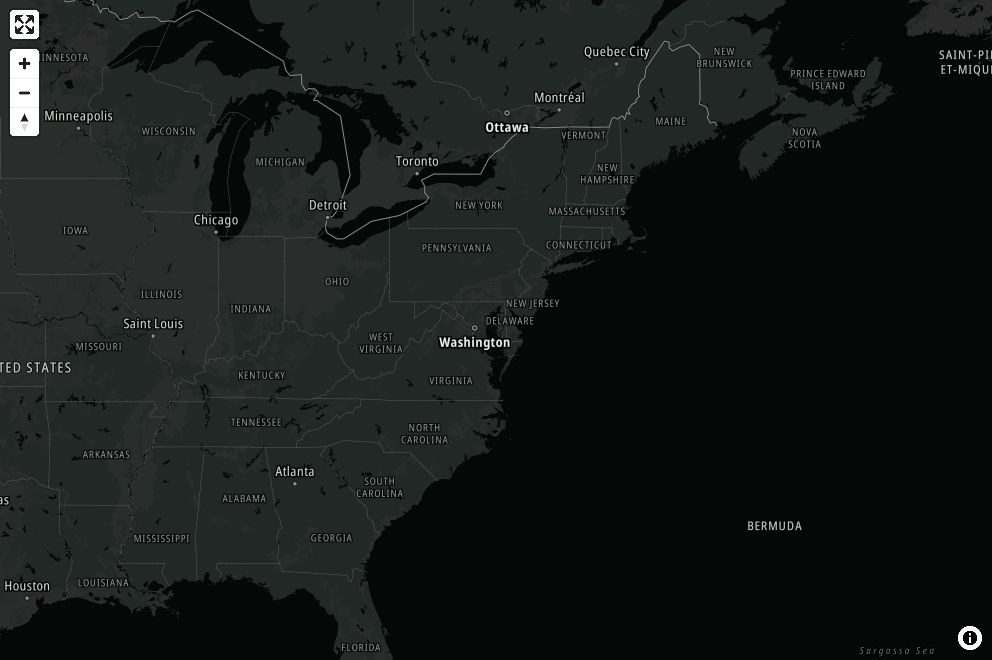
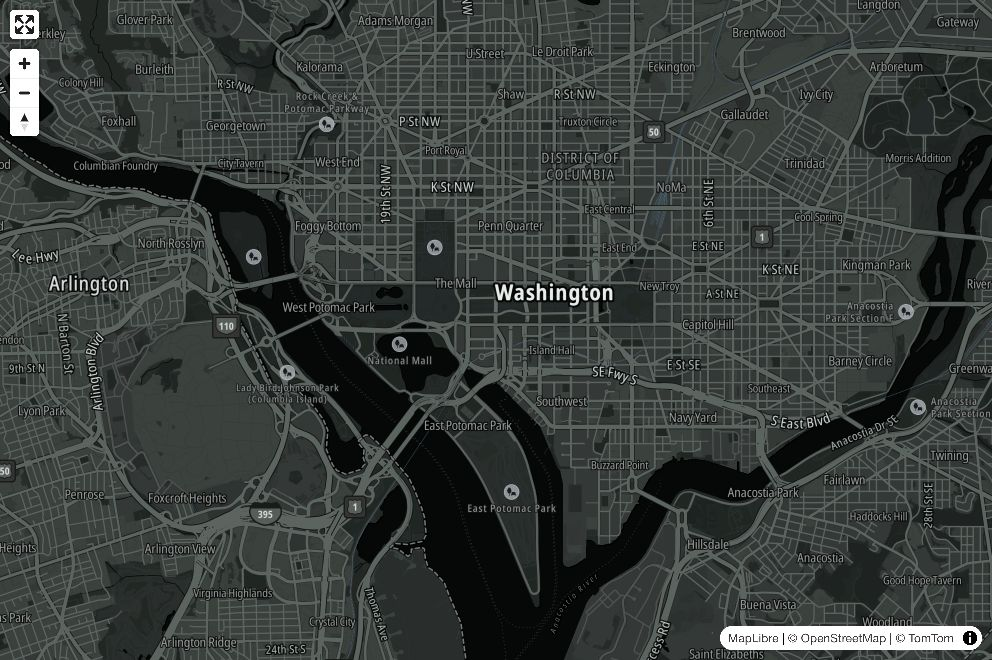
added mapbox component and map images

diff --git a/src/components/MapBox/BaseMapboxMap.tsx b/src/components/MapBox/BaseMapboxMap.tsx
@@ -1,14 +1,15 @@
 "use client";
 
-import {
+import mapbox, {
 	FullscreenControl,
-	Map as MapLibre,
+	Map as MapBox,
 	NavigationControl,
-} from "maplibre-gl";
-import "maplibre-gl/dist/maplibre-gl.css";
+} from "mapbox-gl";
+import "mapbox-gl/dist/mapbox-gl.css";
 import { useEffect, useRef } from "react";
 import { MapContainer } from "@/components/MapContainer";
 import { DEFAULT_MAP_CENTER, DEFAULT_MAP_ZOOM } from "@/constants";
+import { useApiKeyContext } from "@/context";
 import type { LngLat } from "@/types";
 import { logInfo } from "@/utilities";
 
@@ -16,28 +17,25 @@ type Props = {
 	styleUrl: string;
 };
 
-export function BaseMaplibreMap({ styleUrl }: Props) {
+export function BaseMapboxMap({ styleUrl }: Props) {
+	const { mapboxApiKey } = useApiKeyContext();
 	const divRef = useRef<HTMLDivElement>(null);
-	const mapRef = useRef<MapLibre>(null);
+	const mapRef = useRef<MapBox>(null);
 
 	useEffect(() => {
-		if (
-			!styleUrl ||
-			!divRef.current ||
-			divRef.current.querySelector("canvas")
-		) {
+		if (!divRef.current || divRef.current.querySelector("canvas")) {
 			return;
 		}
 
 		logInfo("Creating maplibre map instance");
-		mapRef.current = renderMap(divRef.current, styleUrl);
+		mapRef.current = renderMap(divRef.current, styleUrl, mapboxApiKey);
 		return () => {
 			if (mapRef.current) {
 				logInfo("Removing maplibre map map");
 				mapRef.current.remove();
 			}
 		};
-	}, [styleUrl]);
+	}, [mapboxApiKey, styleUrl]);
 
 	return (
 		<MapContainer>
@@ -49,10 +47,12 @@ export function BaseMaplibreMap({ styleUrl }: Props) {
 export function renderMap(
 	container: HTMLDivElement,
 	styleUrl: string,
+	mapboxApiKey: string,
 	zoom: number = DEFAULT_MAP_ZOOM,
 	center: LngLat = DEFAULT_MAP_CENTER,
 ) {
-	const map = new MapLibre({
+	mapbox.accessToken = mapboxApiKey;
+	const map = new MapBox({
 		container,
 		zoom,
 		center,
@@ -68,7 +68,6 @@ export function renderMap(
 			showCompass: true,
 			showZoom: true,
 			visualizePitch: true,
-			visualizeRoll: true,
 		}),
 		"top-left",
 	);

diff --git a/src/components/MapBox/index.ts b/src/components/MapBox/index.ts
@@ -1,0 +1,49 @@
+export * from "./BaseMapboxMap";
+
+import dynamic from "next/dynamic";
+import type { ComponentType } from "react";
+import type { MapMetadata } from "@/types";
+import { capitalize } from "@/utilities";
+import { styles } from "./mapStyles";
+
+const MapboxMap: ComponentType<{ styleUrl: string }> = dynamic(
+	() => import("./MapboxMap"),
+);
+
+const metadata: MapMetadata = {
+	id: "mapbox",
+	img: {
+		src: "/img/default-mapguru-image.jpg",
+		alt: "loading large volumes of data",
+	},
+	title: "Fun mapbox map",
+	description: "Amazing mapbox map",
+	component: MapboxMap,
+	categories: ["mapbox"],
+};
+
+type MapStyle = {
+	name: string;
+	url: string;
+};
+
+const getId = (style: MapStyle) => `mapbox-${style.name}`;
+
+const getTitle = (style: MapStyle) => capitalize(style.name);
+
+export const mapboxMetadata: MapMetadata[] = styles.map((style) => {
+	const id = getId(style);
+	const title = getTitle(style);
+	const img = {
+		src: `/img/${id}.jpeg`,
+		alt: title,
+	};
+
+	return {
+		...metadata,
+		id,
+		img,
+		title,
+		styleUrl: style.url,
+	};
+});

diff --git a/src/components/TomTom/index.ts b/src/components/TomTom/index.ts
@@ -1,13 +1,11 @@
-export * from "./TomTom";
-
 import dynamic from "next/dynamic";
 import type { ComponentType } from "react";
 import type { MapMetadata } from "@/types";
 import { capitalize } from "@/utilities";
 import { styles } from "./mapStyles";
 
-const TomTom: ComponentType<{ styleUrl?: string }> = dynamic(
-	() => import("./TomTom"),
+const TomtomMap: ComponentType<{ styleUrl: string }> = dynamic(
+	() => import("./TomtomMap"),
 );
 
 const metadata: MapMetadata = {
@@ -19,7 +17,7 @@ const metadata: MapMetadata = {
 	title: "Efficient rendering of large volumes of data",
 	description:
 		"Map that loads and effeciently renders approximately 30MB of data containing more than 100k records.",
-	component: TomTom,
+	component: TomtomMap,
 	categories: ["tomtom"],
 };
 

diff --git a/src/components/MapBox/mapStyles.ts b/src/components/MapBox/mapStyles.ts
@@ -1,0 +1,38 @@
+export const styles = [
+	{
+		name: "standard",
+		url: "mapbox://styles/mapbox/standard",
+	},
+	{
+		name: "streets",
+		url: "mapbox://styles/mapbox/streets-v12",
+	},
+	{
+		name: "outdoors",
+		url: "mapbox://styles/mapbox/outdoors-v12",
+	},
+	{
+		name: "light",
+		url: "mapbox://styles/mapbox/light-v11",
+	},
+	{
+		name: "dark",
+		url: "mapbox://styles/mapbox/dark-v11",
+	},
+	{
+		name: "satellite",
+		url: "mapbox://styles/mapbox/satellite-v9",
+	},
+	{
+		name: "satellite-streets",
+		url: "mapbox://styles/mapbox/satellite-streets-v12",
+	},
+	{
+		name: "navigation-day",
+		url: "mapbox://styles/mapbox/navigation-day-v1",
+	},
+	{
+		name: "navigation-night",
+		url: "mapbox://styles/mapbox/navigation-night-v1",
+	},
+];

diff --git a/src/constants.tsx b/src/constants.tsx
@@ -1,14 +1,12 @@
-import { LngLat } from "maplibre-gl";
-import type { Categories } from "./types";
+import type { Categories, LngLat } from "./types";
 
 export const API_KEY_PLACEHOLDER = "XXX-API-KEY-XXX";
 export const ImgHeightToWidthRatio = 666 / 1000;
 
-export const DEFAULT_MAP_ZOOM = 4.1;
-export const DEFAULT_MAP_CENTER: LngLat = new LngLat(
-	-77.007777135803,
-	39.6561791405168,
-);
+export const DEFAULT_MAP_ZOOM = 12.3;
+export const DEFAULT_MAP_CENTER: LngLat = [
+	-77.02802728158858, 38.886986812976716,
+];
 
 export const DefaultImage: { src: string; alt: string } = {
 	src: "/img/default-swimmania-image.jpg",

diff --git a/src/components/card/Card.tsx b/src/components/card/Card.tsx
@@ -13,6 +13,7 @@ export const Card = ({ img, title, description, id }: MapMetadata) => {
 	}
 
 	const pageLink = `/map/${id}`;
+	const screenshotLink = `/screenshot/${id}`;
 
 	return (
 		<div className="card w-full shadow-sm">
@@ -29,6 +30,9 @@ export const Card = ({ img, title, description, id }: MapMetadata) => {
 					<h2 className="card-title">{title}</h2>
 				</Link>
 				<p>{description}</p>
+				<p>
+					<Link href={screenshotLink}>screenshot</Link>
+				</p>
 				<div className="card-actions justify-end">
 					<Suspense fallback={<Link href={pageLink}>view</Link>}>
 						<RenderMapButton id={id} />

diff --git a/src/types.ts b/src/types.ts
@@ -6,6 +6,8 @@ export type Category = {
 	description: string;
 };
 
+export type LngLat = [number, number];
+
 export type Categories = { [k: string]: Category };
 
 export type MapMetadata = {
@@ -17,8 +19,6 @@ export type MapMetadata = {
 	title: string;
 	description: string;
 	categories: Array<keyof Categories>;
-	component: ComponentType<{ styleUrl?: string }>;
+	component: ComponentType<{ styleUrl: string }>;
 	styleUrl?: string;
 };
-
-export type LngLat = [number, number];

diff --git a/src/components/MapPage/MapListScreenshot.tsx b/src/components/MapPage/MapListScreenshot.tsx
@@ -34,7 +34,6 @@ export const MapListScreenshot = ({ mapId, moveFileToImgFolder }: Props) => {
 							type="button"
 							href={prevMapLink}
 							prefetch={false}
-							replace
 						>
 							prev
 						</Link>
@@ -50,7 +49,6 @@ export const MapListScreenshot = ({ mapId, moveFileToImgFolder }: Props) => {
 							type="button"
 							href={nextMapLink}
 							prefetch={false}
-							replace
 						>
 							next
 						</Link>

diff --git a/src/components/MapLibre/MaplibreMap.tsx b/src/components/MapLibre/MaplibreMap.tsx
@@ -1,0 +1,17 @@
+"use client";
+
+import { logError } from "@/utilities";
+import { BaseMaplibreMap } from "./BaseMaplibreMap";
+
+type Props = {
+	styleUrl: string;
+};
+
+export default function MaplibreMap({ styleUrl }: Props) {
+	if (!styleUrl) {
+		logError("Maplibre style url not set");
+		return;
+	}
+
+	return <BaseMaplibreMap styleUrl={styleUrl} />;
+}

diff --git a/src/components/TomTom/TomtomMap.tsx b/src/components/TomTom/TomtomMap.tsx
@@ -1,0 +1,17 @@
+"use client";
+
+import { logError } from "@/utilities";
+import { BaseTomtomMap } from "./BaseTomtomMap";
+
+type Props = {
+	styleUrl: string;
+};
+
+export default function TomtomMap({ styleUrl }: Props) {
+	if (!styleUrl) {
+		logError("Tomtom style url not set");
+		return;
+	}
+
+	return <BaseTomtomMap styleUrlWithoutKey={styleUrl} />;
+}

diff --git a/src/components/MapBox/MapboxMap.tsx b/src/components/MapBox/MapboxMap.tsx
@@ -1,0 +1,17 @@
+"use client";
+
+import { logError } from "@/utilities";
+import { BaseMapboxMap } from "./BaseMapboxMap";
+
+type Props = {
+	styleUrl: string;
+};
+
+export default function Mapbox({ styleUrl }: Props) {
+	if (!styleUrl) {
+		logError("Mapbox style url not set");
+		return;
+	}
+
+	return <BaseMapboxMap styleUrl={styleUrl} />;
+}

diff --git a/src/mapMetadataList.ts b/src/mapMetadataList.ts
@@ -1,8 +1,10 @@
 import { heatmapMetadata } from "@/components/Heatmaps";
 import { tomtomMetadata } from "@/components/TomTom";
+import { mapboxMetadata } from "./components/MapBox";
 import type { MapMetadata } from "./types";
 
 export const mapMetadataList: MapMetadata[] = [
+	...mapboxMetadata,
 	...tomtomMetadata,
 	...heatmapMetadata,
 ];
